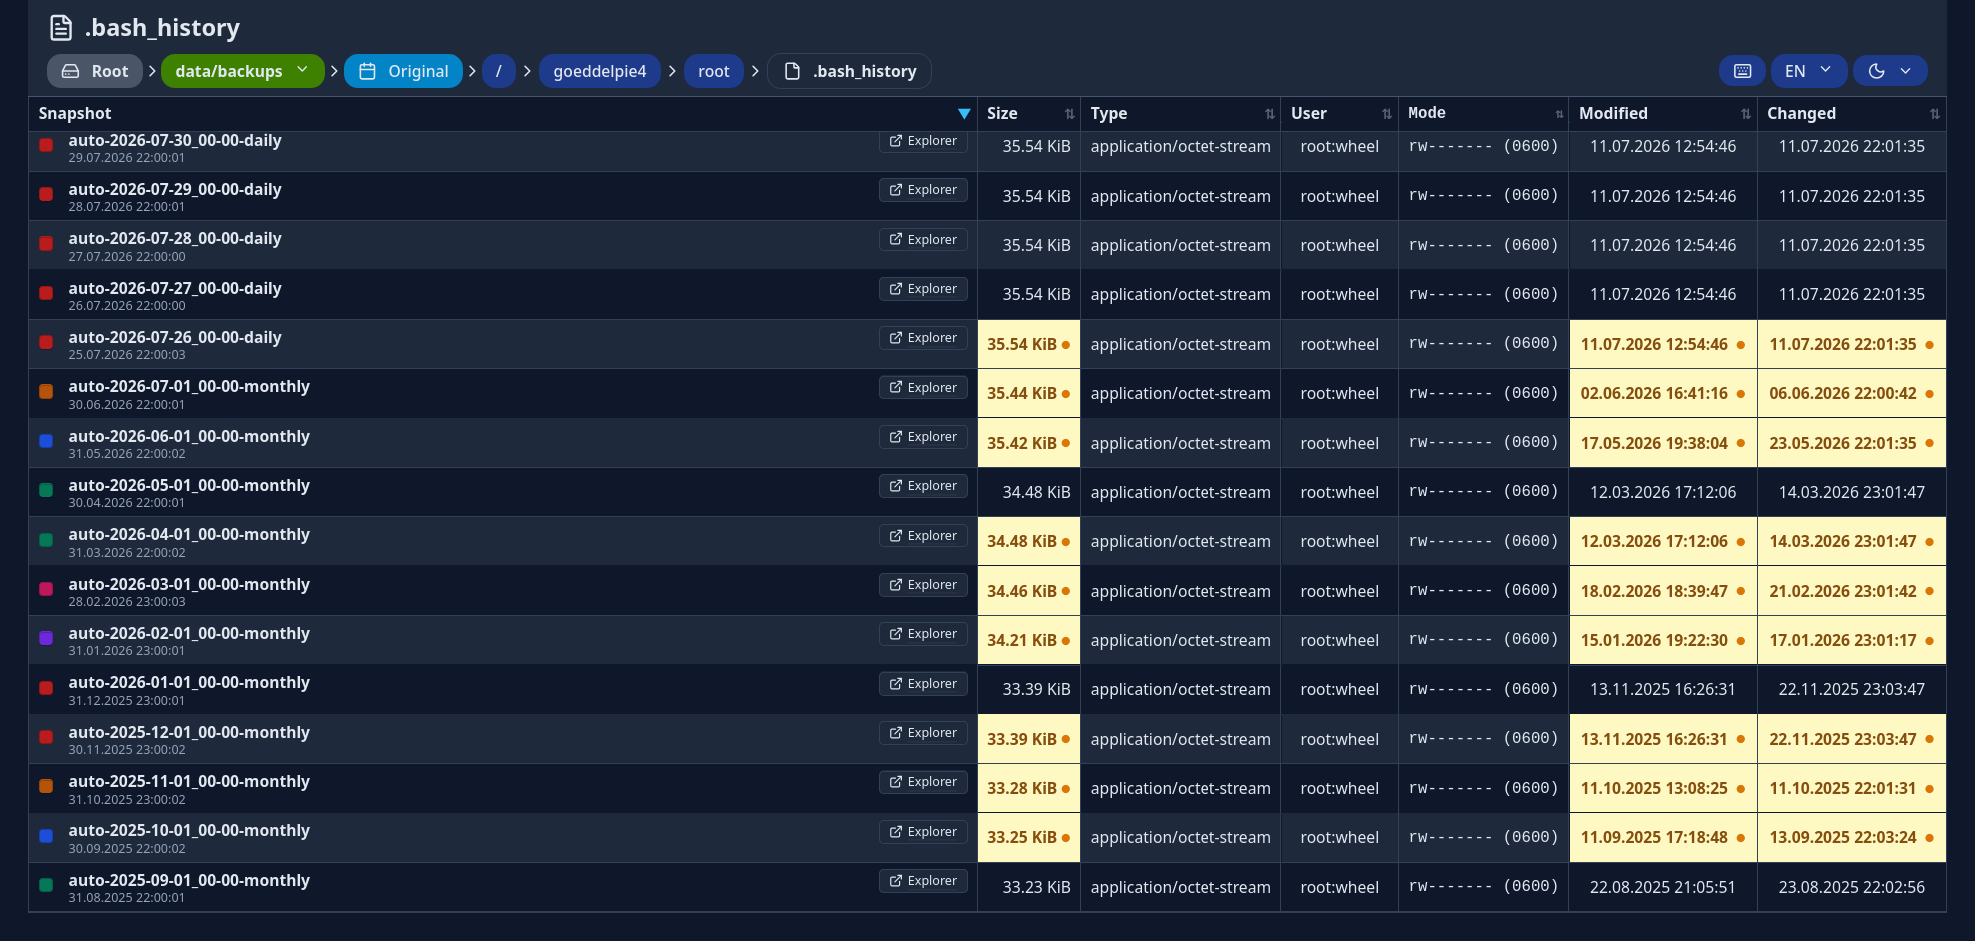
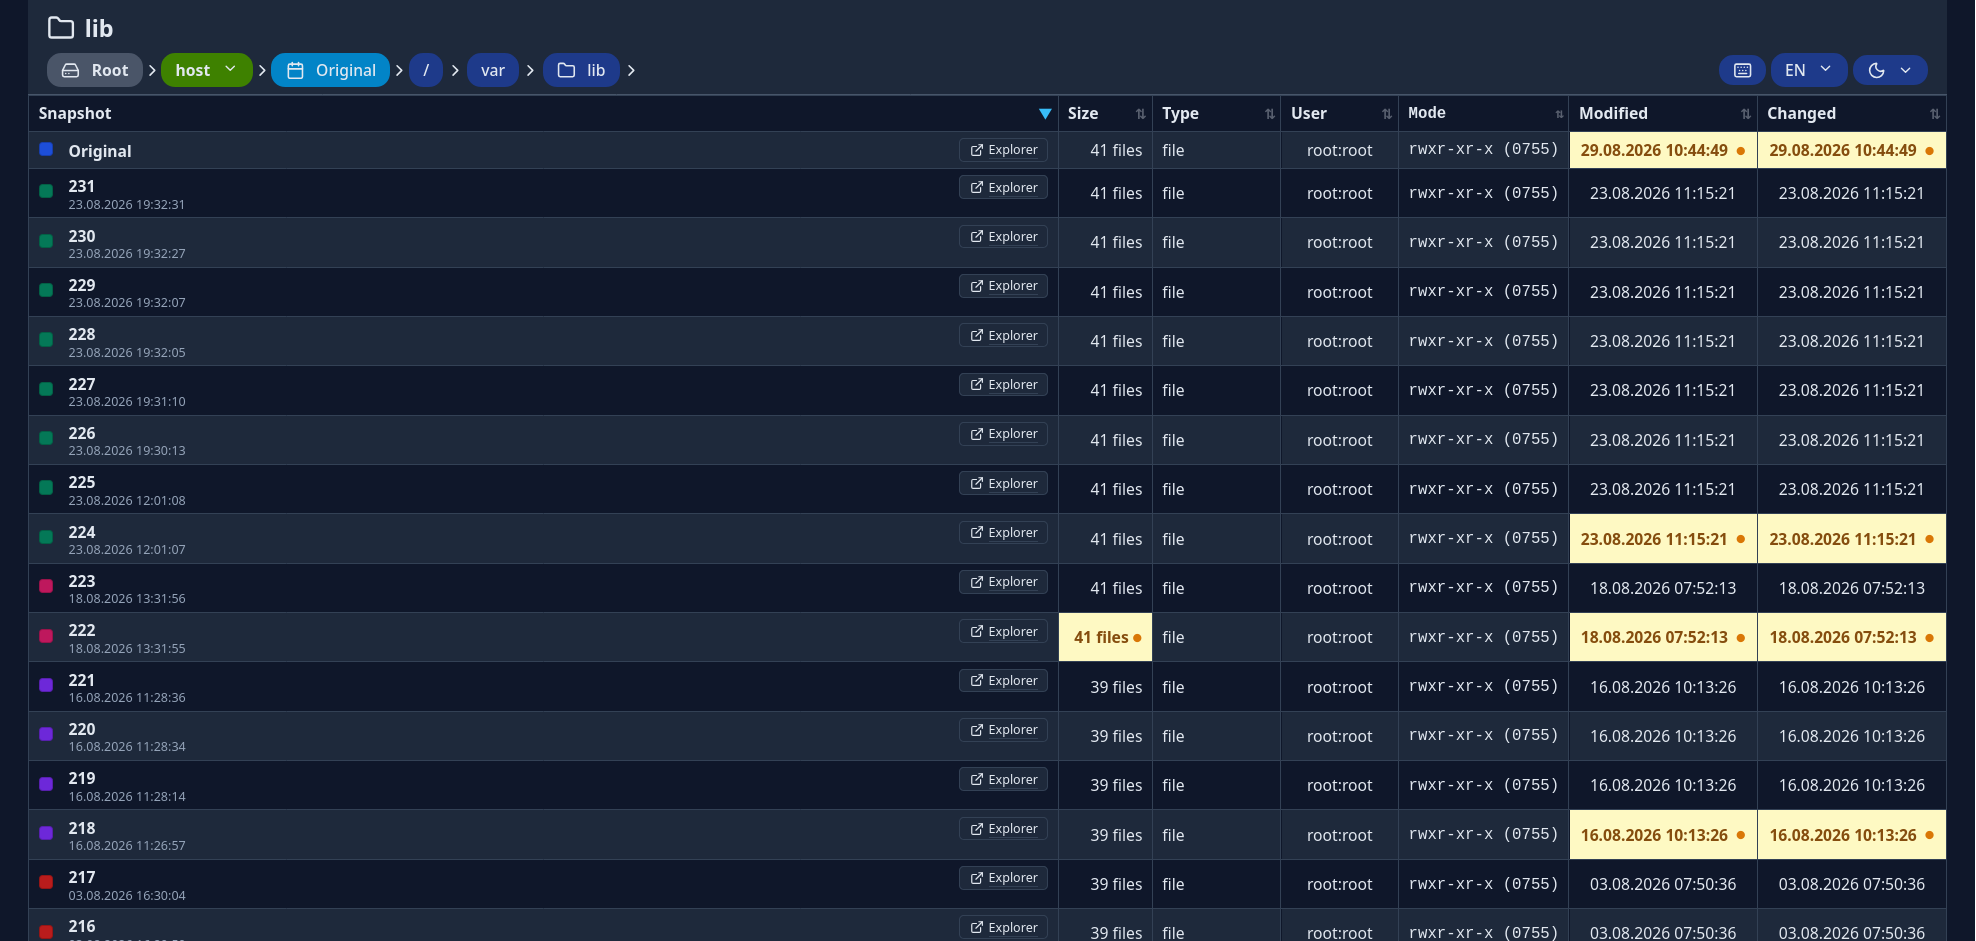
docs: update screenshots and roadmap TODOs

Changed region(s): [[0.0, 0.0, 0.9879, 1.0]]

diff --git a/TODO.md b/TODO.md
@@ -1,11 +1,11 @@
-# ZFS Snapshot Explorer - Feature Roadmap & TODOs
+# Universal Snapshot Explorer (USE) - Feature Roadmap & TODOs
 
 ## Pre-Release / Maintenance
-- [ ] **Release Tagging & Changelog:** Create the first `v0.1.0` release with a clean GitHub Actions build workflow.
+- [x] **Release Tagging & Changelog:** Released `v2.0.0` with full `RELEASES.md` changelog and automated GHCR Docker build workflow.
 - [x] **Path Traversal Protection:** Secure paths strictly in `resolve_root_and_subpath` and `real_path` to prevent requests from escaping the dataset root directory.
 - [x] **Docstrings & Modern Type Annotations:** Clean typing with `from __future__ import annotations`, complete `basedpyright` strict typing across all files (0 errors / 0 warnings), and protocol abstractions.
 - [x] **Automated HTTP/Route Tests:** Implement integration tests using FastAPI's `TestClient` to ensure stability of HTML and API endpoints under error and multi-filesystem scenarios.
-- [ ] **Project Rebranding / Renaming:** Rename project to a universal snapshot explorer name across packages, CLI executable, docs, and repository references.
+- [x] **Project Rebranding / Renaming:** Renamed to Universal Snapshot Explorer (USE) with package `goeddel.use`, CLI `use` / `snapshot-explorer`, docs, and Docker container.
 
 ---
 
@@ -21,6 +21,12 @@
 - [x] **ZIP Batch Download:** Stream selected files or entire folders as a `.zip` archive on-the-fly (without temporary disk storage)
 - [x] **Multi-Selection:** Checkbox multi-selection for batch actions (similar to Nextcloud)
 - [x] **Modern 404 & Error Page:** Styled error view with smart navigation helpers (nearest existing parent directory), snapshot timeline bar with hover tooltips & i18n
+- [ ] **Btrfs Subvolume Auto-Discovery & Nested Scan:** Scan all nested Btrfs subvolumes via `btrfs subvolume list` or filesystem inspection to register all subvolumes with `.snapshots` even if not mounted in `/proc/mounts`.
+- [ ] **Folder-Scoped Inode Rename Tracking & Hash Navigation:** Detect renamed/moved files within the current folder by tracking persistent Inodes (`st_ino`) across snapshots. If a focused `#filename` is missing in a target snapshot, automatically refocus or link to the entry with the matching Inode.
+- [ ] **Automatic & On-Demand Cache Invalidation:**
+  - *Mtime-based auto-detection:* Check `os.stat` on snapshot control directory (`.zfs/snapshot` or `.snapshots`) to auto-invalidate cache when snapshots are created/pruned in 24/7 server environments.
+  - *Browser Hard-Reload Header (`Ctrl+F5`):* Intercept `Cache-Control: no-cache` / `Pragma: no-cache` request headers in backend to automatically trigger `root_folder.invalidate()`.
+  - *UI Refresh Button & Shortcut (<kbd>Shift+R</kbd>):* Dedicated rotate icon in toolbar and keyboard shortcut to force cache invalidation with flicker-free DOM update.
 - [ ] **Shadow Config Exporter:** Option in the Root Overview dashboard to export all dynamically discovered Delegated Roots as a ready-to-use `config.yaml`.
 - [ ] **Multi-Snapshot Version Export (`.tar.gz`):** Export all versions of selected files across all snapshots utilizing native POSIX hardlink deduplication (unchanged files are only transferred once in the stream)
 - [ ] **On-Demand Folder Size Calculation:** Recursively calculate the actual folder size on-demand (button/shortcut) with caching at the `Folder` object to avoid unnecessary I/O load
@@ -50,6 +56,7 @@
 - [x] **Keyboard Navigation:** Navigate with `↑`/`↓`, expand/collapse folders with `→`/`←`, `Enter` for actions, `i`/`d` for details, `/` for quick search, `Ctrl+L` for path editing, and `h`/`?` for shortcut help
 - [x] **Toolbar Indicators:** Dynamic counter badges & filter statistics for hidden, missing, and unchanged files
 - [x] **Modernized Root Overview:** Snapshot count per root, keyboard navigation & reusable header widgets (`nav_controls.html.j2`)
+- [ ] **Hierarchical Roots Overview / Sub-Dataset Tree View:** Render nested datasets and subvolumes as an indented tree or grouped view with individual snapshot counts in the Roots dashboard.
 - [x] **Symlink Resolution & Navigation:** Intelligent handling of symlinks in the web interface: If symlink points to a folder $\rightarrow$ follow link and open ListView of target folder; if it points to a file $\rightarrow$ open target folder with row highlighted (`#filename`); if symlink is invalid/dead (dangling symlink) $\rightarrow$ display special icon (`link-2-off`) & error indicator instead of a download error 404
 - [x] **DetailView Button for Current Folder:** Add info button (`i`) on the far right of the table header in ListView to consistently navigate to the DetailView of the currently opened folder
 - [x] **Fixed Alignment of Action Icons:** Align icons in the right action column (`.browser-cell-actions`) left-aligned with a fixed grid, so that the info icon (`i`) on folder rows aligns perfectly with the info icons on file rows
@@ -62,6 +69,7 @@
 ## 4. Frontend (Detail View, Diffing & Media Previews)
 - [x] Visual change highlighting: Highlight attribute changes across snapshots (with tooltips & version badges)
 - [x] Sortable snapshot column (Newest first $\downarrow$ vs. Oldest first $\uparrow$) with chronological diff calculation
+- [ ] **Categorical Attribute Value Color-Coding:** Color-code matching attribute values per column in DetailView so identical values across snapshots share subtle, harmonious background tints with high text contrast (columns without changes retain default background).
 - [ ] **Text Diff Viewer:** Side-by-Side & Unified diff for text and code files between any two snapshots
 - [ ] **Image Diff:** Before/after comparison for image files (slider / overlay)
 - [ ] **In-Browser Media Quick-Preview:** Modal lightbox window for images, HTML5 audio/video player, PDF viewer, and code syntax highlighting

diff --git a/README.md b/README.md
@@ -19,7 +19,7 @@ Instead of browsing snapshots one by one or mounting snapshot directories manual
 ### Explorer View (Multi-Snapshot Timeline)
 ![Explorer View](assets/explorer.png)
 
-### Roots Dashboard (Dataset Overview)
+### Roots Dashboard (Dataset Overview) *(v1.0.0 preview)*
 ![Roots Dashboard](assets/dashboard.png)
 
 ### File Details & Version History
